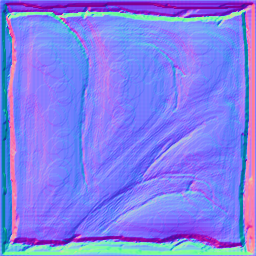
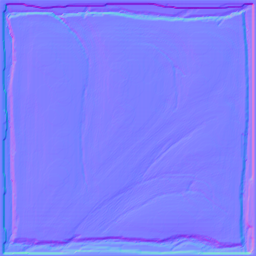
Take into account normal map when determining diffuse lighting. Smoothed out PhysicsDemo normal maps so they don't look insane with this change. Fixed ConeLight.

diff --git a/examples/CelestialDemo/TechDemoGame.cs b/examples/CelestialDemo/TechDemoGame.cs
@@ -58,6 +58,10 @@ namespace CelestialEngine.TechDemo
             this.InputManager.AddConditionalBinding((s) => s.IsFirstKeyPress(Keys.Right), (s) => mouseLight.Rotation += 0.2f);
             this.InputManager.AddConditionalBinding((s) => s.IsFirstKeyPress(Keys.Up), (s) => mouseLight.Dimensions += new Vector2(0.5f, 0.25f));
             this.InputManager.AddConditionalBinding((s) => s.IsFirstKeyPress(Keys.Down), (s) => mouseLight.Dimensions -= new Vector2(0.5f, 0.25f));
+            this.InputManager.AddConditionalBinding((s) => s.IsFirstKeyPress(Keys.NumPad0), (s) => {
+                    mouseLight.SpecularStrength = mouseLight.SpecularStrength > 0 ? 0 : 7.0f;
+                    mouseLight.Power = mouseLight.Power == 4f ? 6f : 4f;
+                });
 
             this.InputManager.AddConditionalBinding((s) => s.IsFirstKeyPress(Keys.F1), (s) => this.RenderSystem.DebugDrawMode = DeferredRenderSystemDebugDrawMode.Disabled);
             //this.InputManager.AddConditionalBinding((s) => s.IsFirstKeyPress(Keys.F2), (s) => this.RenderSystem.DebugDrawMode = DeferredRenderSystemDebugDrawMode.All);
@@ -85,7 +89,8 @@ namespace CelestialEngine.TechDemo
             this.background = new TiledSprite(this.GameWorld, "Content/floortile", "Content/floortilenormal", null, bounds.Position, Vector2.Zero, bounds.AreaBounds)
             {
                 RenderScale = new Vector2(0.4f, 0.4f),
-                RenderOptions = SpriteRenderOptions.IsLit
+                RenderOptions = SpriteRenderOptions.IsLit,
+                SpecularReflectivity = 2
             };
 
             SimpleSprite test = new SimpleSprite(this.GameWorld, "Content/box", null, false)
@@ -164,15 +169,15 @@ namespace CelestialEngine.TechDemo
                 var x = new DebugSprite(this.GameWorld, test4);
             }
 
-            this.amLight = new AmbientLight(Color.White, 0.2f, true, 1);
+            this.amLight = new AmbientLight(Color.White, 0.1f, true, 1);
             this.RenderSystem.AddPostProcessEffect(this.amLight);
 
             mouseLight = new RectangularLight(this.GameWorld)
             {
                 Color = Color.White,
-                Power = 1f,
+                Power = 4f,
                 Range = 8,
-                Decay = 2,
+                Decay = 2f,
                 SpecularStrength = 7.00f,
                 CastsShadows = true,
                 LayerDepth = 1
@@ -251,7 +256,7 @@ namespace CelestialEngine.TechDemo
         private void UpdateCursorPosition(InputState state)
         {
             if (mouseLight != null)
-                mouseLight.Position = new Vector3(this.RenderSystem.GetWorldFromScreen(new Vector2(state.CurrentMouseState.X, state.CurrentMouseState.Y)), 0.15f);
+                mouseLight.Position = new Vector3(this.RenderSystem.GetWorldFromScreen(new Vector2(state.CurrentMouseState.X, state.CurrentMouseState.Y)), 3.00f);
         }
 
         /// <summary>
@@ -262,10 +267,10 @@ namespace CelestialEngine.TechDemo
         {
             BouncyConeLight newLight = new BouncyConeLight(this.GameWorld)
             {
-                Position = new Vector3(this.RenderSystem.GetWorldFromScreen(new Vector2(state.CurrentMouseState.X, state.CurrentMouseState.Y)), 0.15f),
+                Position = new Vector3(this.RenderSystem.GetWorldFromScreen(new Vector2(state.CurrentMouseState.X, state.CurrentMouseState.Y)), 3f),
                 Velocity = this.GetRandomVelocity(),
                 Color = this.GetRandomColor(),
-                Power = 0.8f,
+                Power = 1.25f,
                 Range = this.prng.Next(400, 600) / 100.0f,
                 SpecularStrength = 4.75f,
                 AngularVelocity = this.prng.Next(40, 90) / 100.0f,
@@ -290,11 +295,11 @@ namespace CelestialEngine.TechDemo
         {
             PointLight newLight = new PointLight(this.GameWorld)
             {
-                Position = new Vector3(this.RenderSystem.GetWorldFromScreen(new Vector2(state.CurrentMouseState.X, state.CurrentMouseState.Y)), 0.15f),
+                Position = new Vector3(this.RenderSystem.GetWorldFromScreen(new Vector2(state.CurrentMouseState.X, state.CurrentMouseState.Y)), 3.00f),
                 Velocity = this.GetRandomVelocity(),
                 Color = this.GetRandomColor(),
                 Range = 8,
-                Power = .5f,
+                Power = .75f,
                 SpecularStrength = 4.75f,
                 CastsShadows = true,
             };
@@ -321,12 +326,13 @@ namespace CelestialEngine.TechDemo
         {
             PointLight newLight = new PointLight(this.GameWorld)
             {
-                Position = new Vector3(this.RenderSystem.GetWorldFromScreen(new Vector2(state.CurrentMouseState.X, state.CurrentMouseState.Y)), 0.15f),
+                Position = new Vector3(this.RenderSystem.GetWorldFromScreen(new Vector2(state.CurrentMouseState.X, state.CurrentMouseState.Y)), 3.00f),
                 Color = this.GetRandomColor(),
                 Range = 8,
-                Power = .5f,
+                Power = .75f,
                 SpecularStrength = 4.75f,
-                CastsShadows = true
+                CastsShadows = true,
+                LayerDepth = 1
             };
             lightCount++;
             newLight.Body.BodyType = FarseerPhysics.Dynamics.BodyType.Dynamic;

diff --git a/CelestialEngine.Shared/Game/SimpleSprite.cs b/CelestialEngine.Shared/Game/SimpleSprite.cs
@@ -282,10 +282,10 @@ namespace CelestialEngine.Game
                     this.spriteTexture.GetData(0, spriteTextureBoundingBox, pixelData, 0, pixelData.Length);
                 }
 
-                // Convert the image to black (saving Alpha channel)
+                // Convert the image to a normal map with all vectors pointing UP (saving Alpha channel)
                 for (int i = 0; i < pixelData.Length; i++)
                 {
-                    pixelData[i] = 255U << 24 & pixelData[i];
+                    pixelData[i] = (255U << 24 & pixelData[i]) + (255U << 16) + (128U << 8) + 128U;
                 }
 
                 this.spriteNormalTexture.SetData(pixelData);

diff --git a/examples/PhysicsDemo/PhysicsGame.cs b/examples/PhysicsDemo/PhysicsGame.cs
@@ -88,11 +88,11 @@ namespace PhysicsDemo
             // Create the point light
             var spotLight = new PointLight(this.GameWorld)
             {
-                Position = new Vector3(35, 5, 2f),
+                Position = new Vector3(35, 0, 10f),
                 LayerDepth = 2,
                 Color = Color.White,
                 Power = 10f,
-                Range = 45,
+                Range = 55,
                 CastsShadows = true,
                 SpecularStrength = 4.00f
             };
